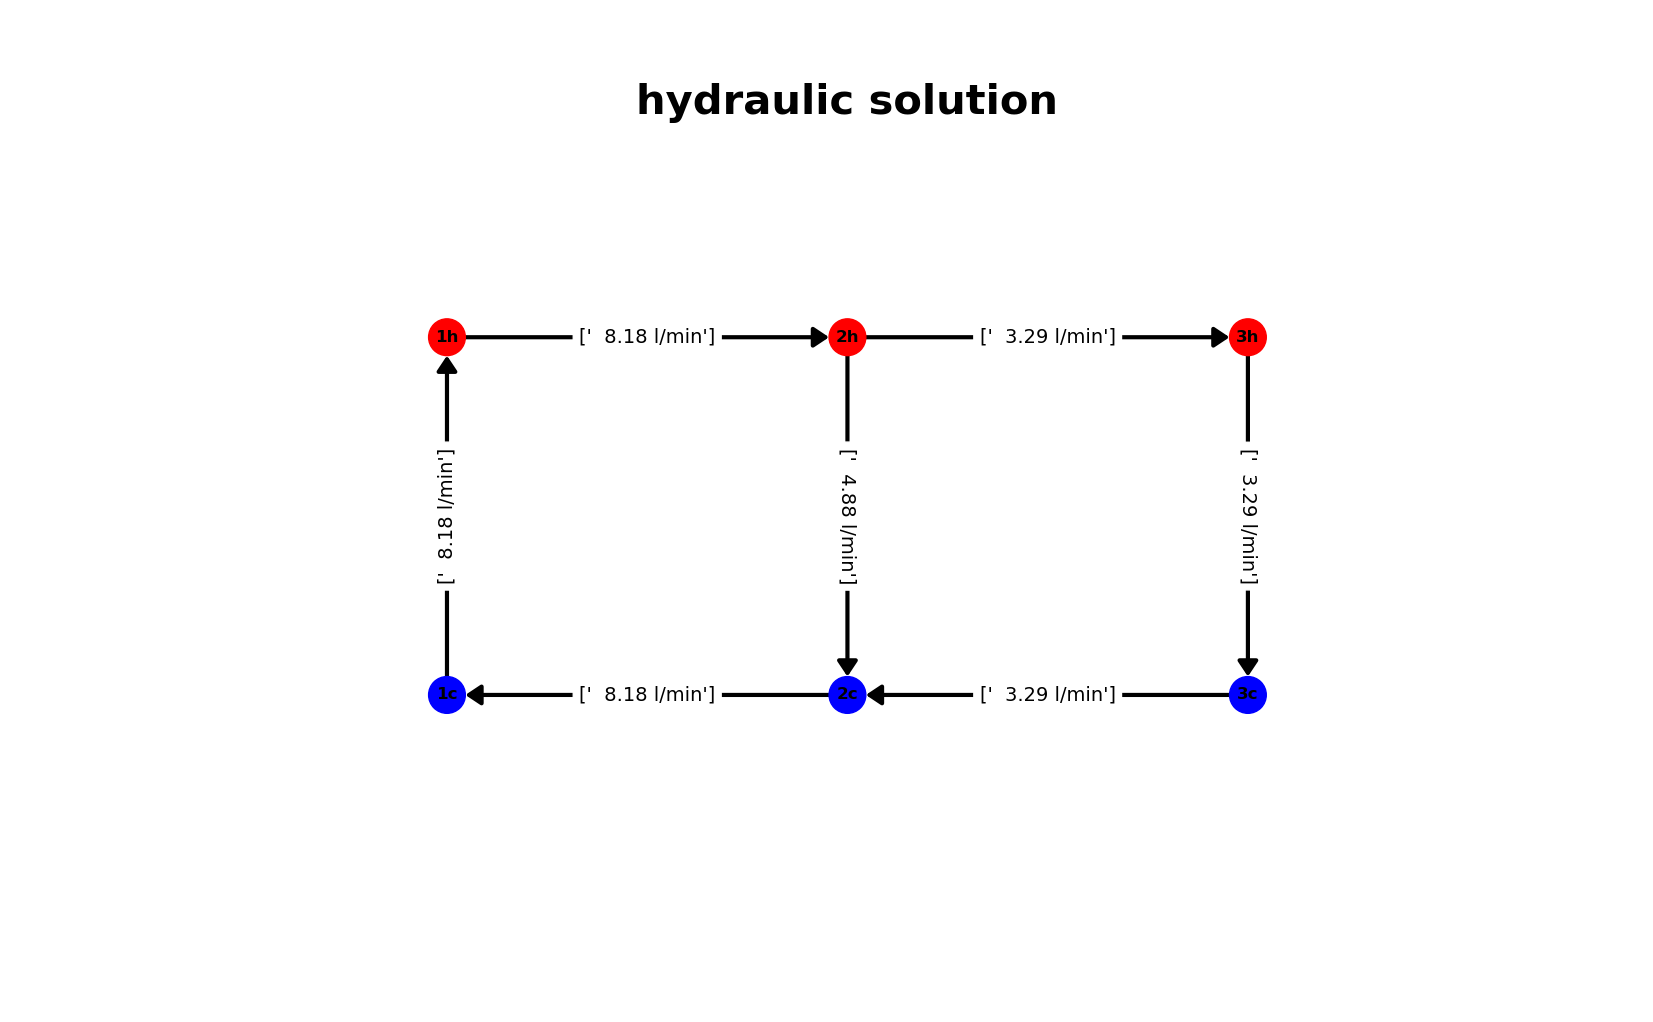
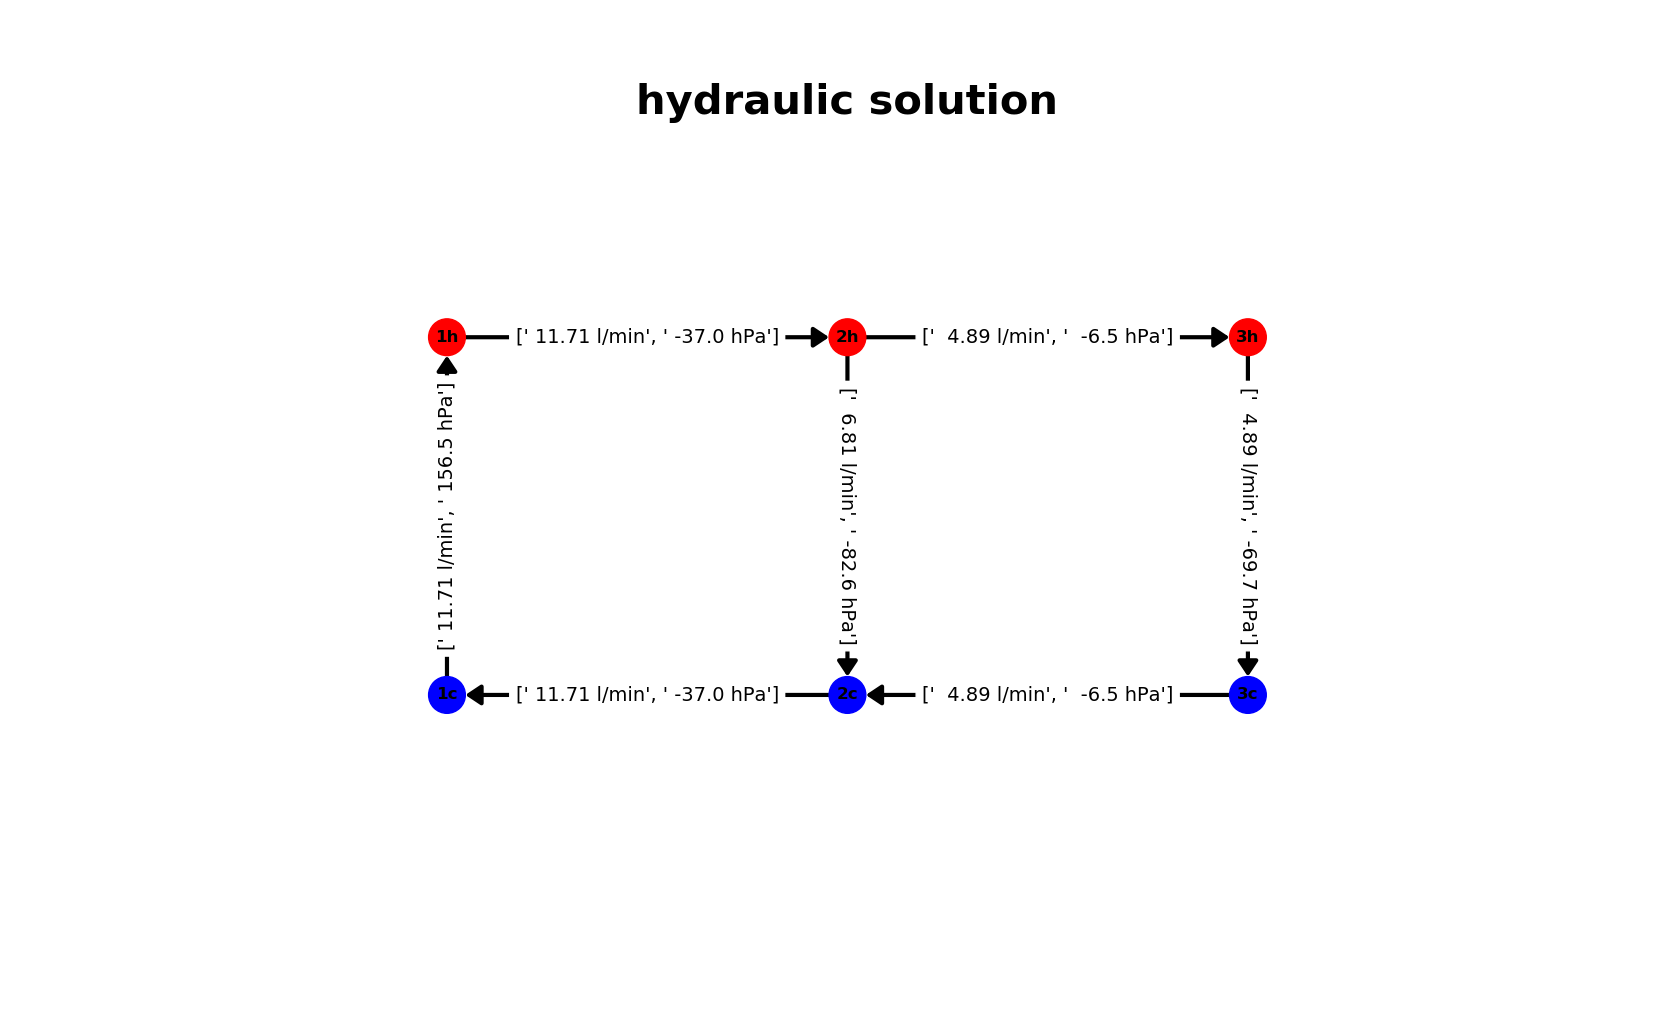
correct pi**2 error

diff --git a/A_main.py b/A_main.py
@@ -95,7 +95,7 @@ vis.visualize_graph(mysetup, mygraph, mysolutions)
 vis.visualize_scenario(mysetup, mygraph, mysolutions, withnumbers=True)
 
 # hydraulic solution
-vis.visualize_hy_solution(mysetup, mygraph, mysolutions, withsymbols = False, withnumbers = True, data = 'flow')
+vis.visualize_hy_solution(mysetup, mygraph, mysolutions, withsymbols = False, withnumbers = True, data = 'both')
 
 # thermal solution
 vis.visualize_th_solution(mysetup, mygraph, mysolutions, th_model, withsymbols = False, withnumbers = True)

diff --git a/D_component_models.py b/D_component_models.py
@@ -292,7 +292,7 @@ class pipe:
         Re_nom))**(1.0/3.0))     # [-]
         
         # hydralic resistance of pipe
-        a_pi_1    =   -(8/math.pi)*fluid.rho_SI*(1/(self.d_hy**4))*\
+        a_pi_1    =   -(8/(math.pi**2))*fluid.rho_SI*(1/(self.d_hy**4))*\
             ((self.L/self.d_hy)*f_D+self.zeta_instal)# [Pa*(s**2)/(m**3**2)]
         a_pi_1    =   a_pi_1 * 1/(100*(60*1000)**2) #[Pa*(min**2)/(l**2)]
         
